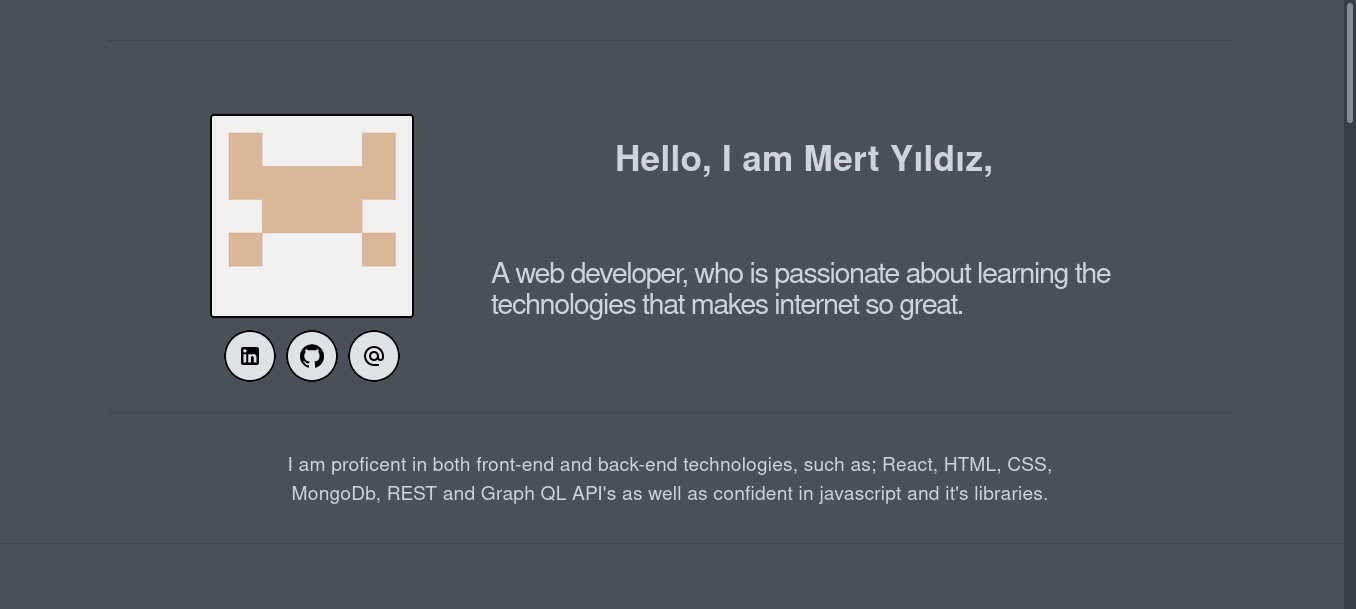
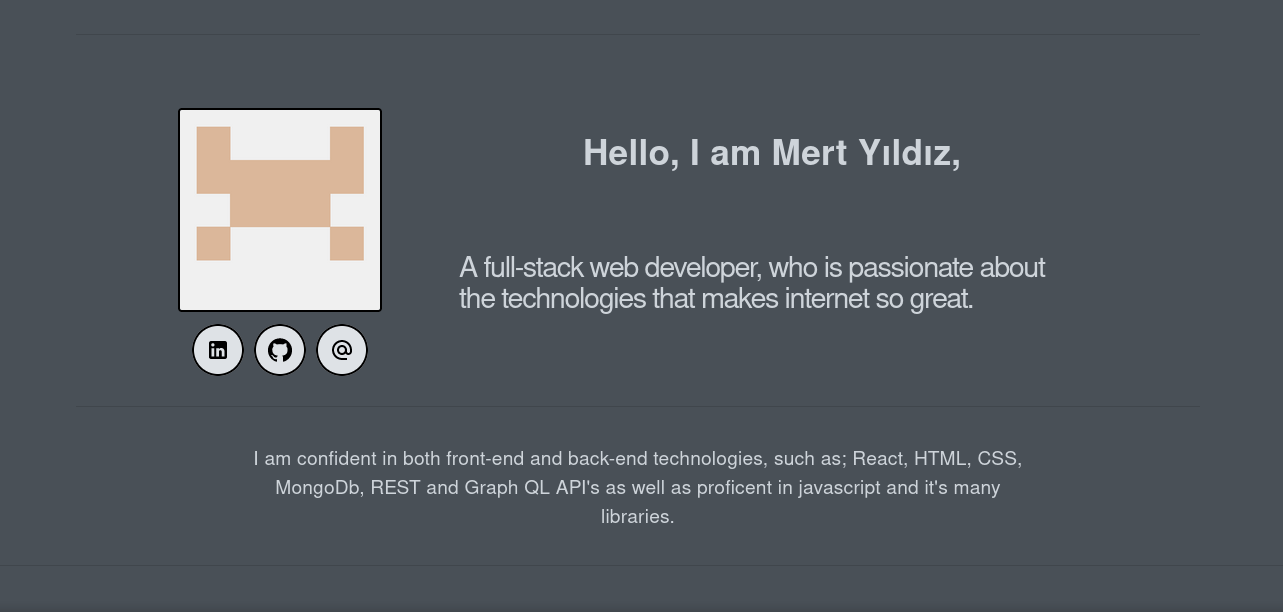
change text

diff --git a/src/components/introduction/ContactCard.js b/src/components/introduction/ContactCard.js
@@ -108,7 +108,9 @@ const classes = useStyles()
              <Grid className={classes.avatarContainer}item md={7} xs ={12}>
              <Typography align='center' className={classes.title}variant='h6'>Hello, I am Mert Yıldız,</Typography>
 
-             <Typography className={classes.text}variant='h6'>A web developer, who is passionate about learning the technologies that makes internet so great.</Typography>
+             <Typography className={classes.text}variant='h6'>
+                 A full-stack web developer, who is passionate about the technologies that makes internet so great.
+             </Typography>
 
 
              </Grid>

diff --git a/src/components/introduction/Introduction.js b/src/components/introduction/Introduction.js
@@ -49,7 +49,7 @@ return(
 
 <Typography align='center'className={classes.text}>
         I am confident in both front-end and back-end technologies, such as; React, HTML, CSS, MongoDb, REST and Graph QL API's
-        as well as proficent in javascript and it's many libraries. It is my job as a programmer to create projects using the tools that are right for the job.  
+        as well as proficent in javascript and it's many libraries.  
 
 
 </Typography>
